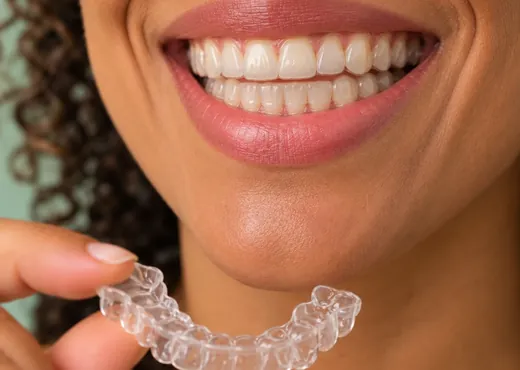
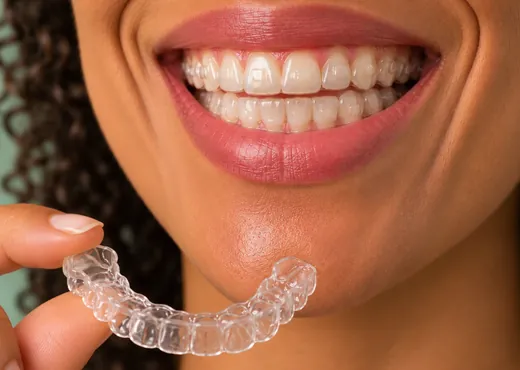
Troca a foto do alinhador por uma com o alinhador nos dentes e na mão
Os dentes mostram o brilho do plástico e os pontos de apoio, e o alinhador em bandeja na mão deixa o assunto claro mesmo no tamanho pequeno do cartão.

Claude-Session: https://claude.ai/code/session_013ZBAMFUUhj3y7DouA4XRGk

diff --git a/index.html b/index.html
@@ -34,7 +34,7 @@
     <link rel="preconnect" href="https://fonts.gstatic.com" crossorigin>
     <link href="https://fonts.googleapis.com/css2?family=Montserrat:wght@300;400;500;600;700&display=swap" rel="stylesheet">
     <link rel="preload" as="image" href="assets/profissional/dra-nayane-topo-900.webp" imagesrcset="assets/profissional/dra-nayane-topo-560.webp 560w, assets/profissional/dra-nayane-topo-900.webp 900w" imagesizes="(min-width: 1024px) 460px, 86vw">
-    <link rel="stylesheet" href="styles.css?v=20261107-29">
+    <link rel="stylesheet" href="styles.css?v=20261107-30">
 </head>
 <body>
 
@@ -233,7 +233,7 @@
                     <div class="situacao-texto"><h3>Já usou aparelho e os dentes mexeram</h3><p>Fez tratamento antes e percebeu que os dentes voltaram a sair do lugar.</p></div>
                 </li>
                 <li class="revelar">
-                    <div class="situacao-img"><img src="assets/situacoes/06-aparelho-discreto.webp" srcset="assets/situacoes/06-aparelho-discreto-520.webp 520w, assets/situacoes/06-aparelho-discreto.webp 900w" sizes="(min-width: 1024px) 380px, (min-width: 600px) 46vw, 92vw" width="900" height="640" alt="Pessoa sorrindo, segurando um alinhador transparente" loading="lazy"></div>
+                    <div class="situacao-img"><img src="assets/situacoes/06-aparelho-discreto.webp" srcset="assets/situacoes/06-aparelho-discreto-520.webp 520w, assets/situacoes/06-aparelho-discreto.webp 900w" sizes="(min-width: 1024px) 380px, (min-width: 600px) 46vw, 92vw" width="900" height="640" alt="Pessoa sorrindo, com alinhadores transparentes nos dentes, segurando outro alinhador na mão" loading="lazy"></div>
                     <div class="situacao-texto"><h3>Quer um aparelho mais discreto</h3><p>Prefere uma opção que apareça menos no dia a dia e no trabalho.</p></div>
                 </li>
             </ul>
@@ -283,7 +283,7 @@
                 </article>
 
                 <article class="aparelho revelar">
-                    <div class="aparelho-arte"><img src="assets/aparelhos/alinhador.webp" srcset="assets/aparelhos/alinhador-520.webp 520w, assets/aparelhos/alinhador.webp 900w" sizes="(min-width: 1024px) 380px, (min-width: 600px) 46vw, 90vw" width="900" height="640" alt="Pessoa sorrindo, segurando um alinhador transparente" loading="lazy"></div>
+                    <div class="aparelho-arte"><img src="assets/aparelhos/alinhador.webp" srcset="assets/aparelhos/alinhador-520.webp 520w, assets/aparelhos/alinhador.webp 900w" sizes="(min-width: 1024px) 380px, (min-width: 600px) 46vw, 90vw" width="900" height="640" alt="Pessoa sorrindo, com alinhadores transparentes nos dentes, segurando outro alinhador na mão" loading="lazy"></div>
                     <span class="aparelho-tag">Removível</span>
                     <h3>Alinhador transparente</h3>
                     <p>Placas transparentes, feitas sob medida e trocadas ao longo do tratamento, conforme o planejamento.</p>
